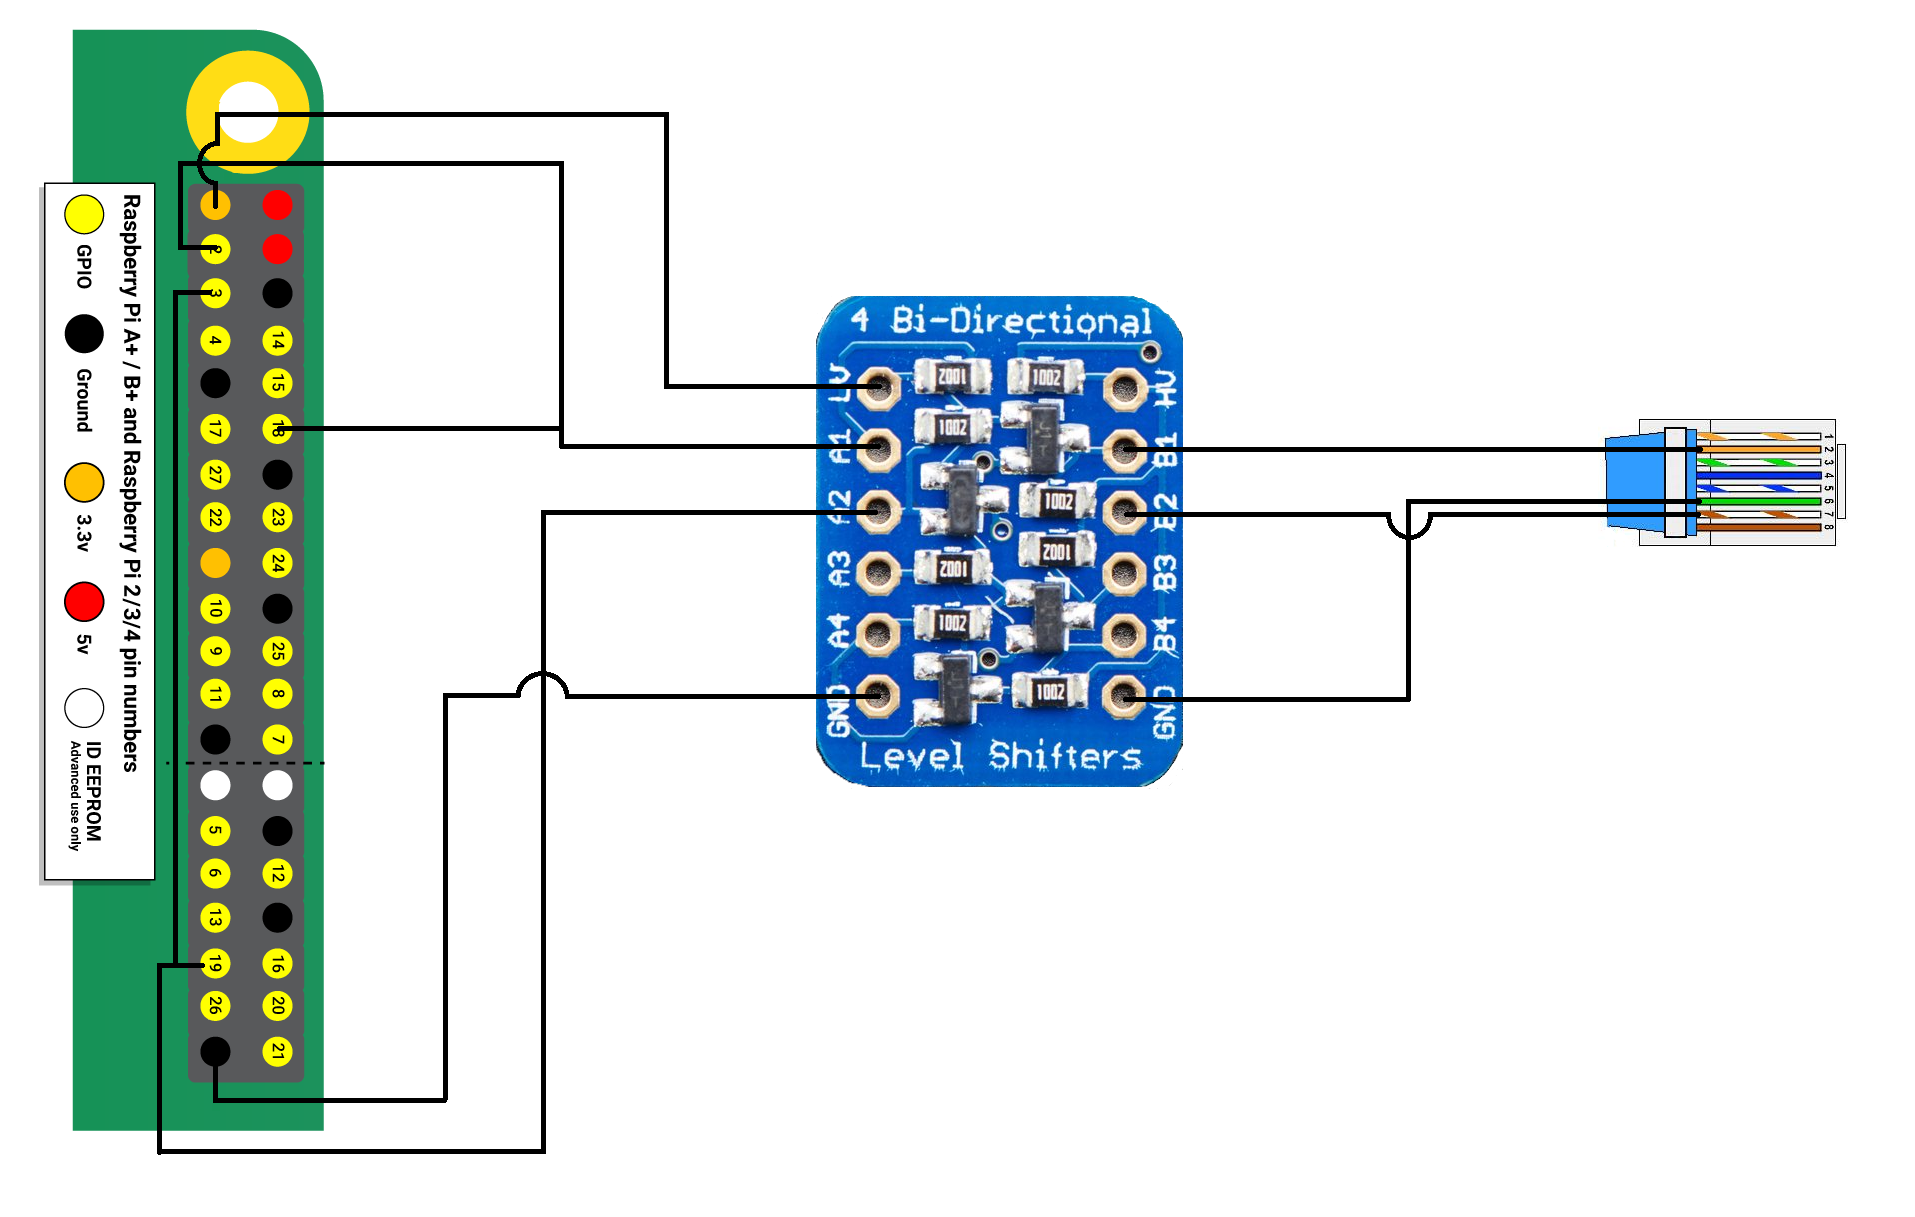
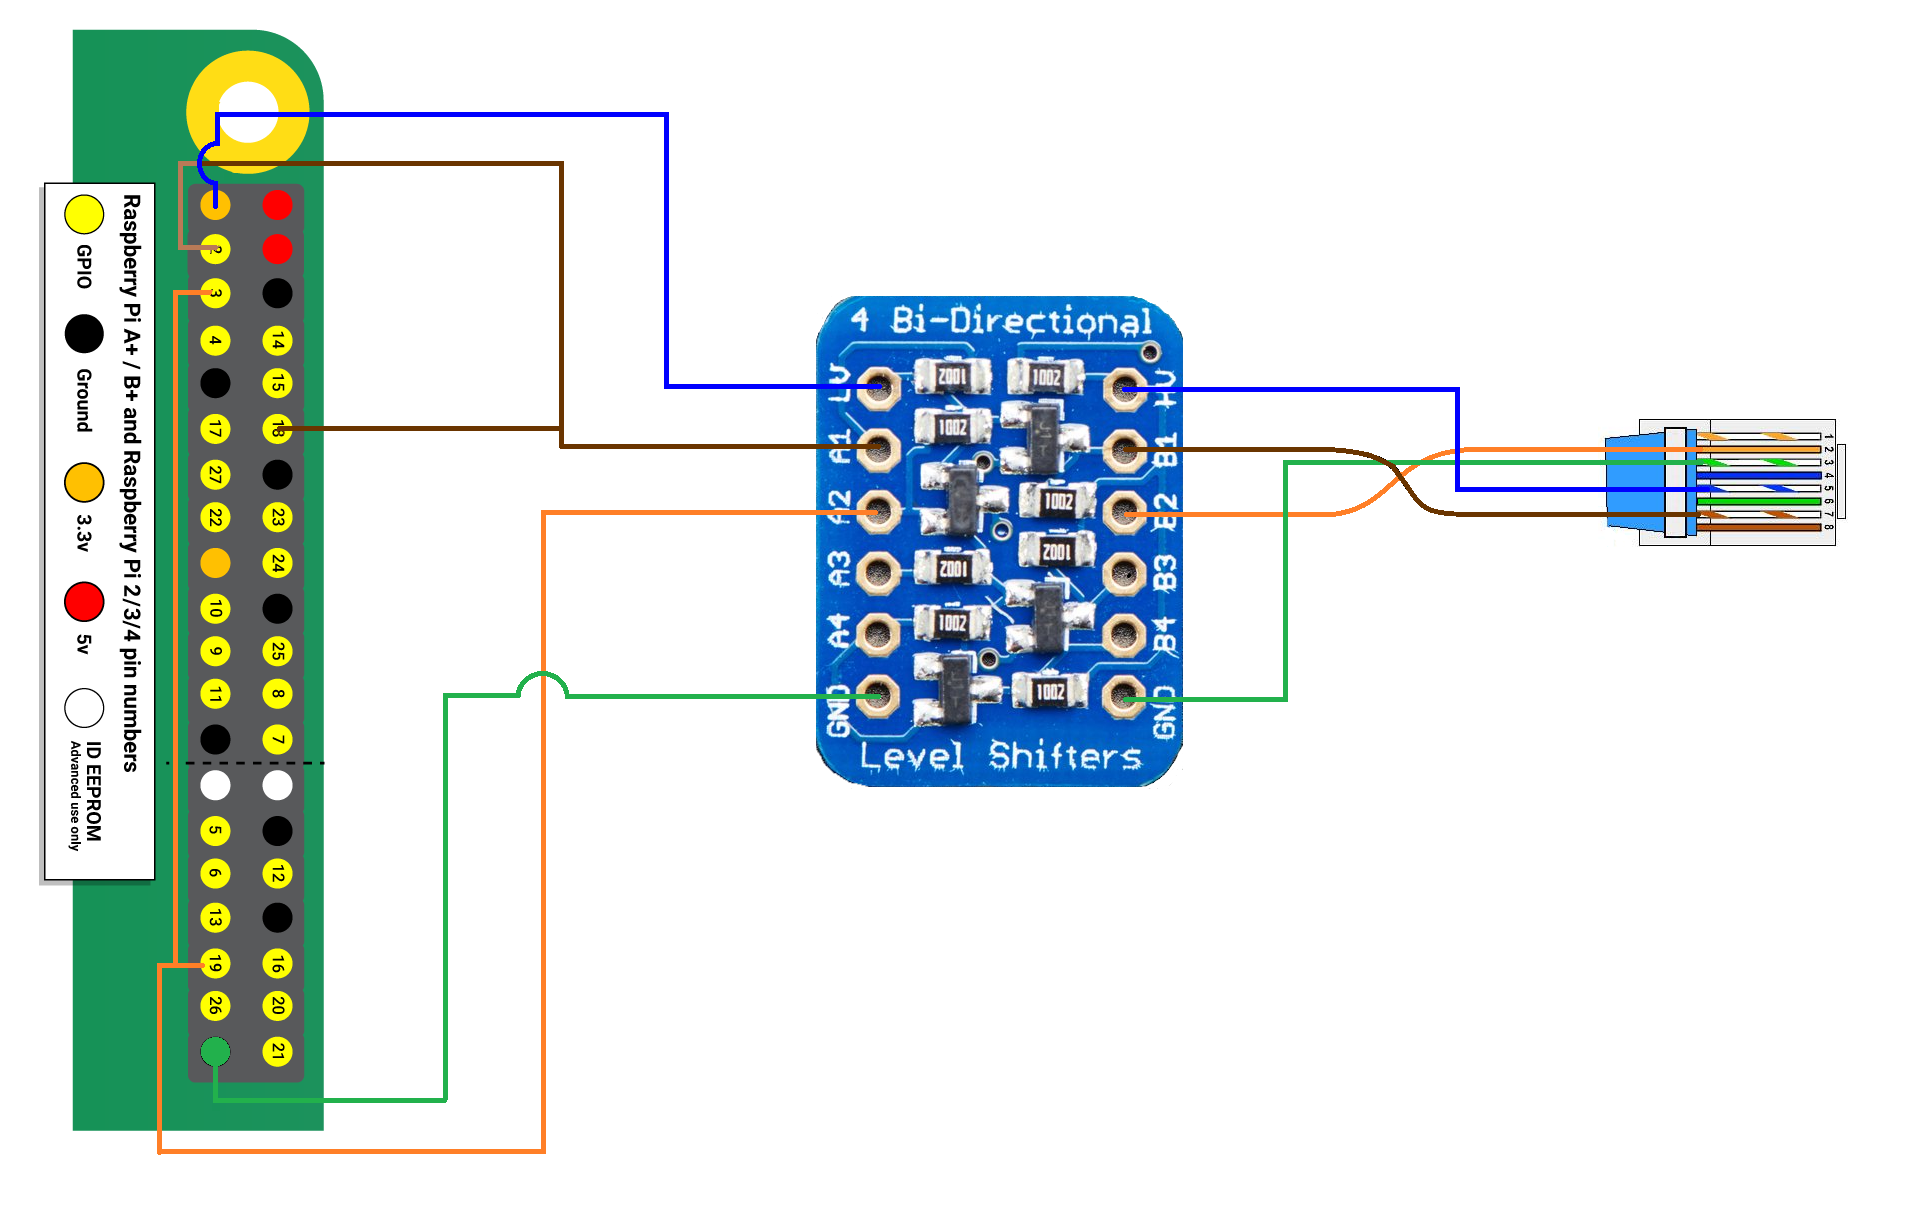
fixed: RJ-45 wiring was reversed

diff --git a/README.md b/README.md
@@ -24,10 +24,10 @@ This project started from this forum thread: https://www.circuitsonline.net/foru
 The component involved is a level shifter, because the Itho units run on 5V instead of 3.3V.
 I used the Adafruit BSS138 level shifter: https://www.kiwi-electronics.nl/4-channel-i2c-safe-bi-directional-logic-level-converter-BSS138?search=adafruit%20i2c%20level%20shifter&description=true
 Wiring like this:
-- I2C-SDA: Raspberry Pi GPIO02 (PIN03) & GPIO18 (PIN12) to Level shifter Low (A1), Level shifter high (B1) to RJ-45 pin 2 (Orange)
-- I2C-SCL: Raspberry Pi GPIO19 (PIN35) & GPIO03 (PIN05) to Level shifter Low (A2), Level shifter high (B2) to RJ-45 pin 7 (White/Brown)
-- Raspberry Pi - GRND(PIN39) - Level shifter GRND Hi and Low - RJ45 Pin 6 (Green)
-- Raspberry Pi - 3.3V (PIN01) to Level shifter Low (LV)
+- I2C-SDA: Raspberry Pi GPIO02 (PIN03) & GPIO18 (PIN12) to Level shifter Low (A1), Level shifter high (B1) to RJ-45 pin 7 (White/Brown)
+- I2C-SCL: Raspberry Pi GPIO19 (PIN35) & GPIO03 (PIN05) to Level shifter Low (A2), Level shifter high (B2) to RJ-45 pin 2 (Orange)
+- Raspberry Pi - GRND(PIN39) - Level shifter GRND Hi and Low - RJ45 Pin 3 (White/Green)
+- Raspberry Pi - 3.3V (PIN01) to Level shifter Low (LV), Level shifter High (HV) to RJ-45 pin 5 (White/Blue)
 ![image](https://github.com/ootjersb/pislave/blob/master/wiring-schema.png?raw=true) 
  
 # Dependencies
